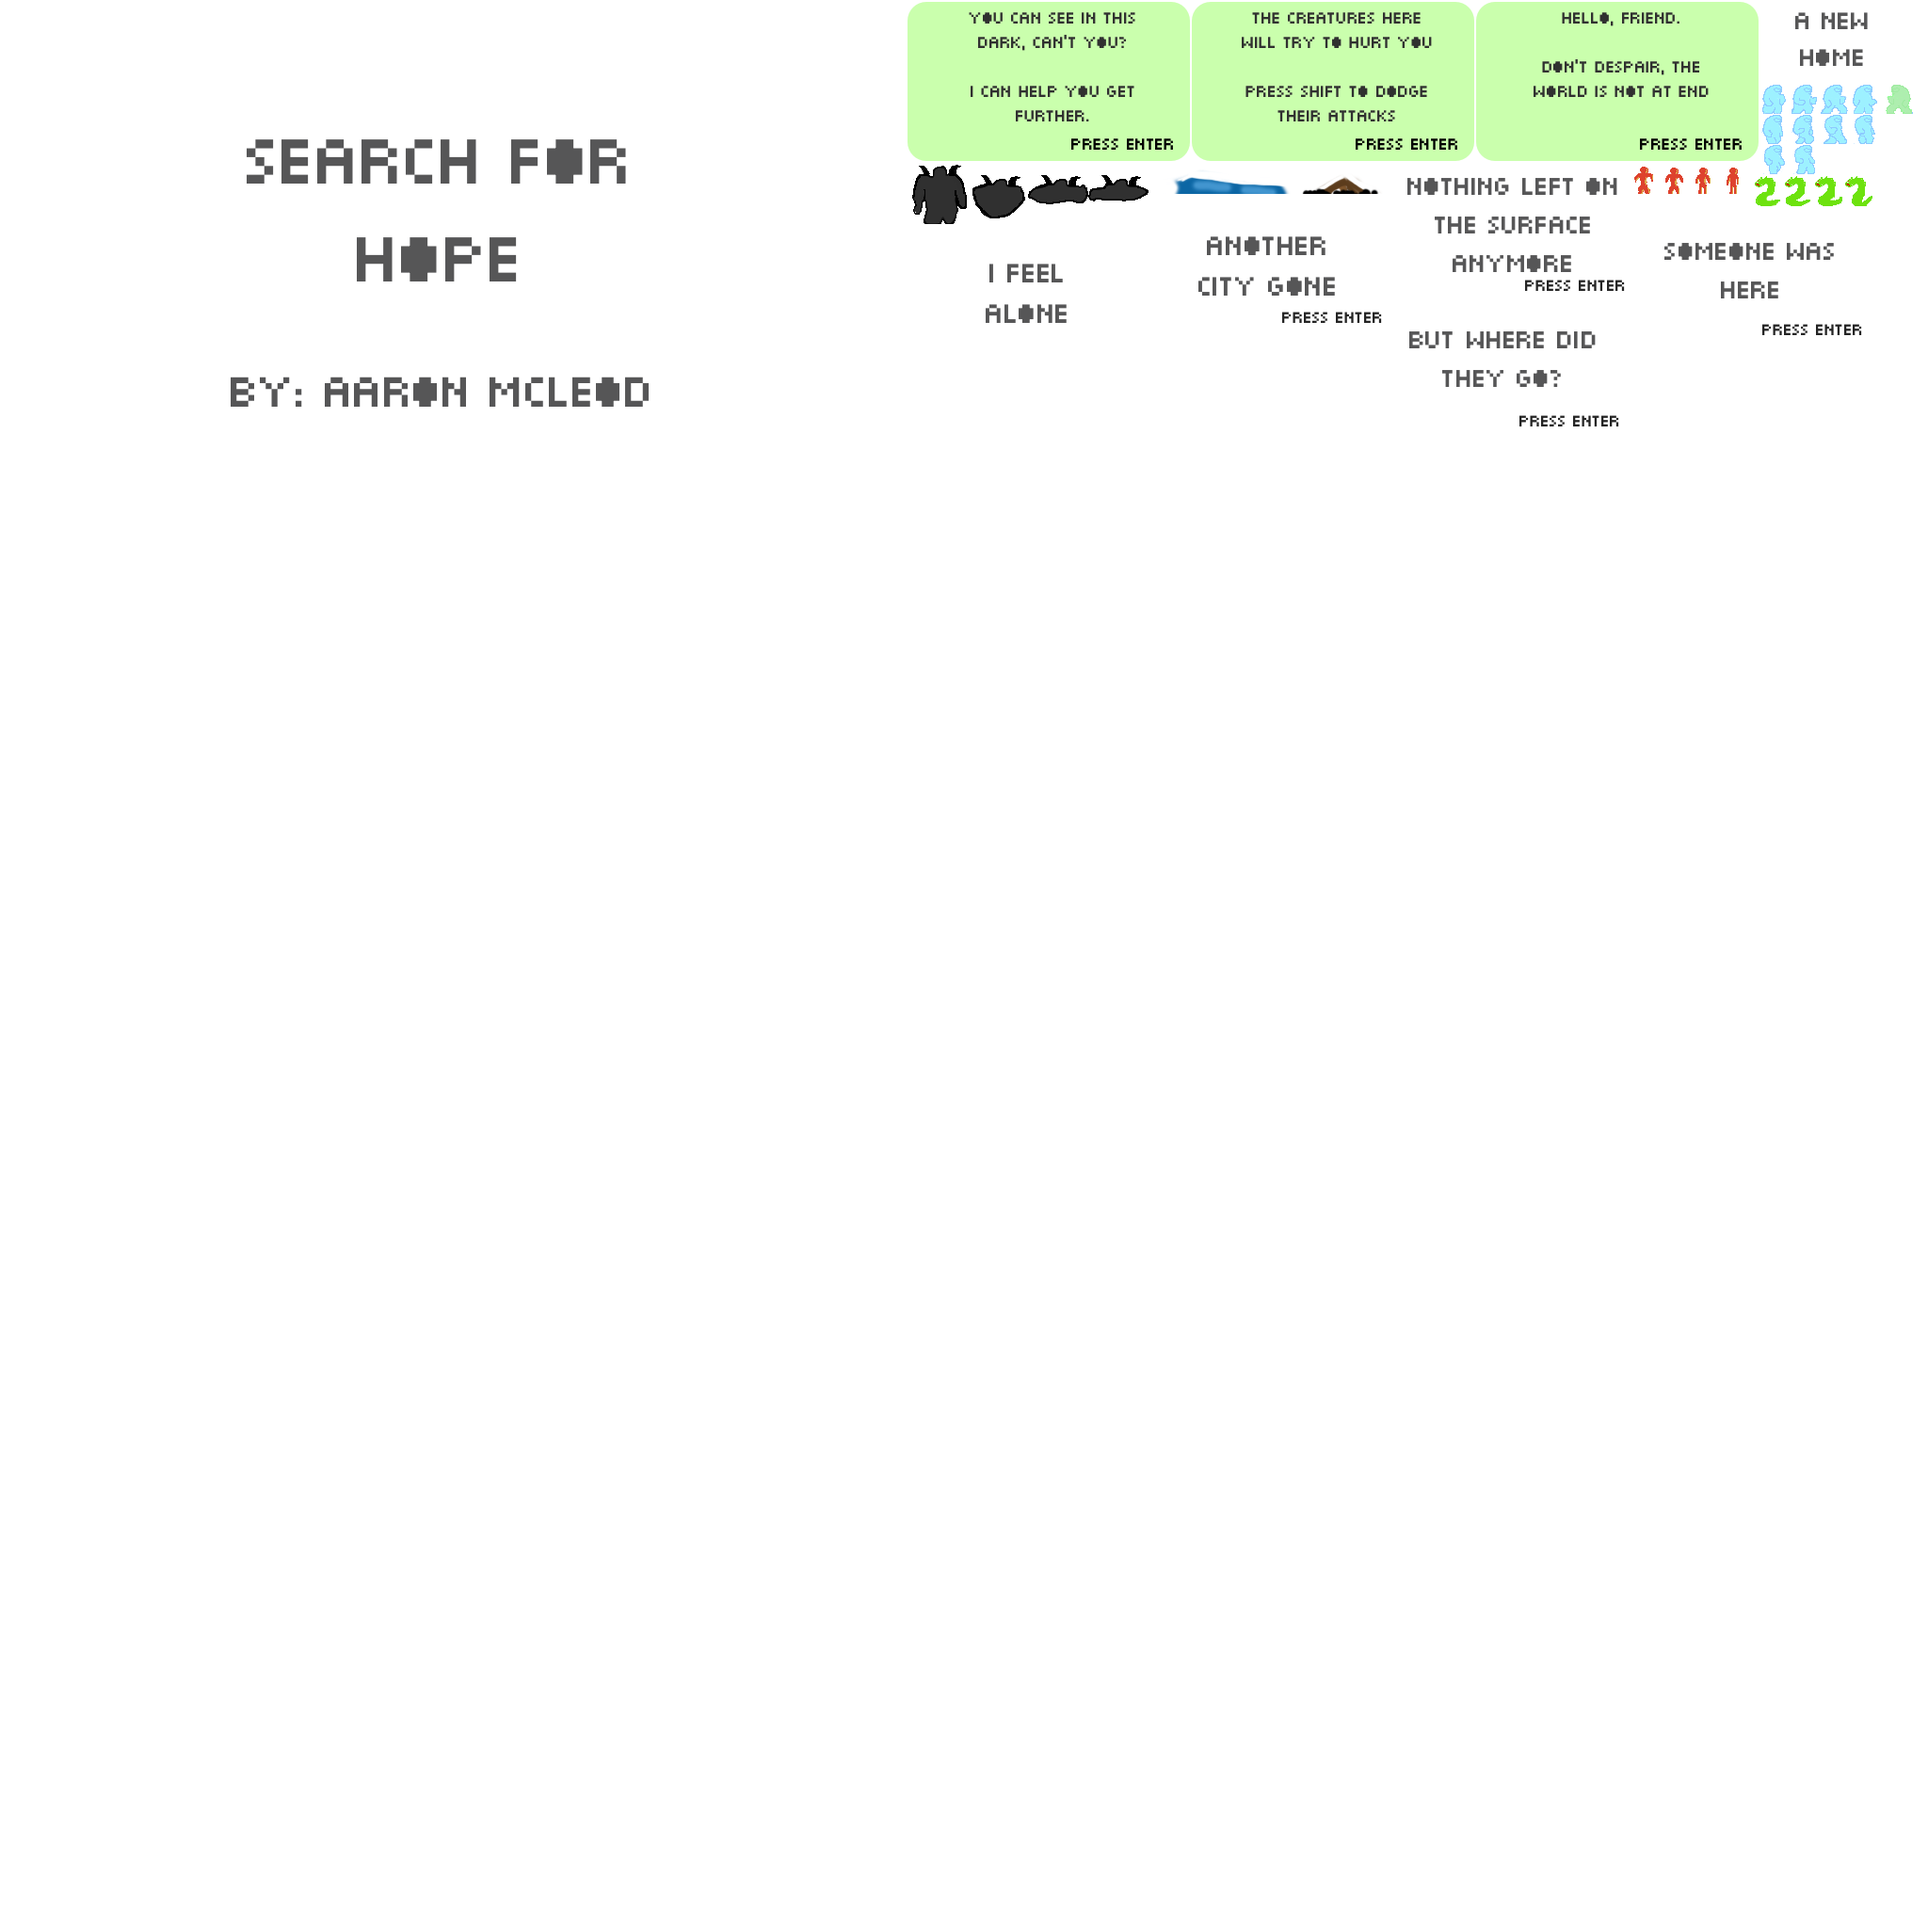
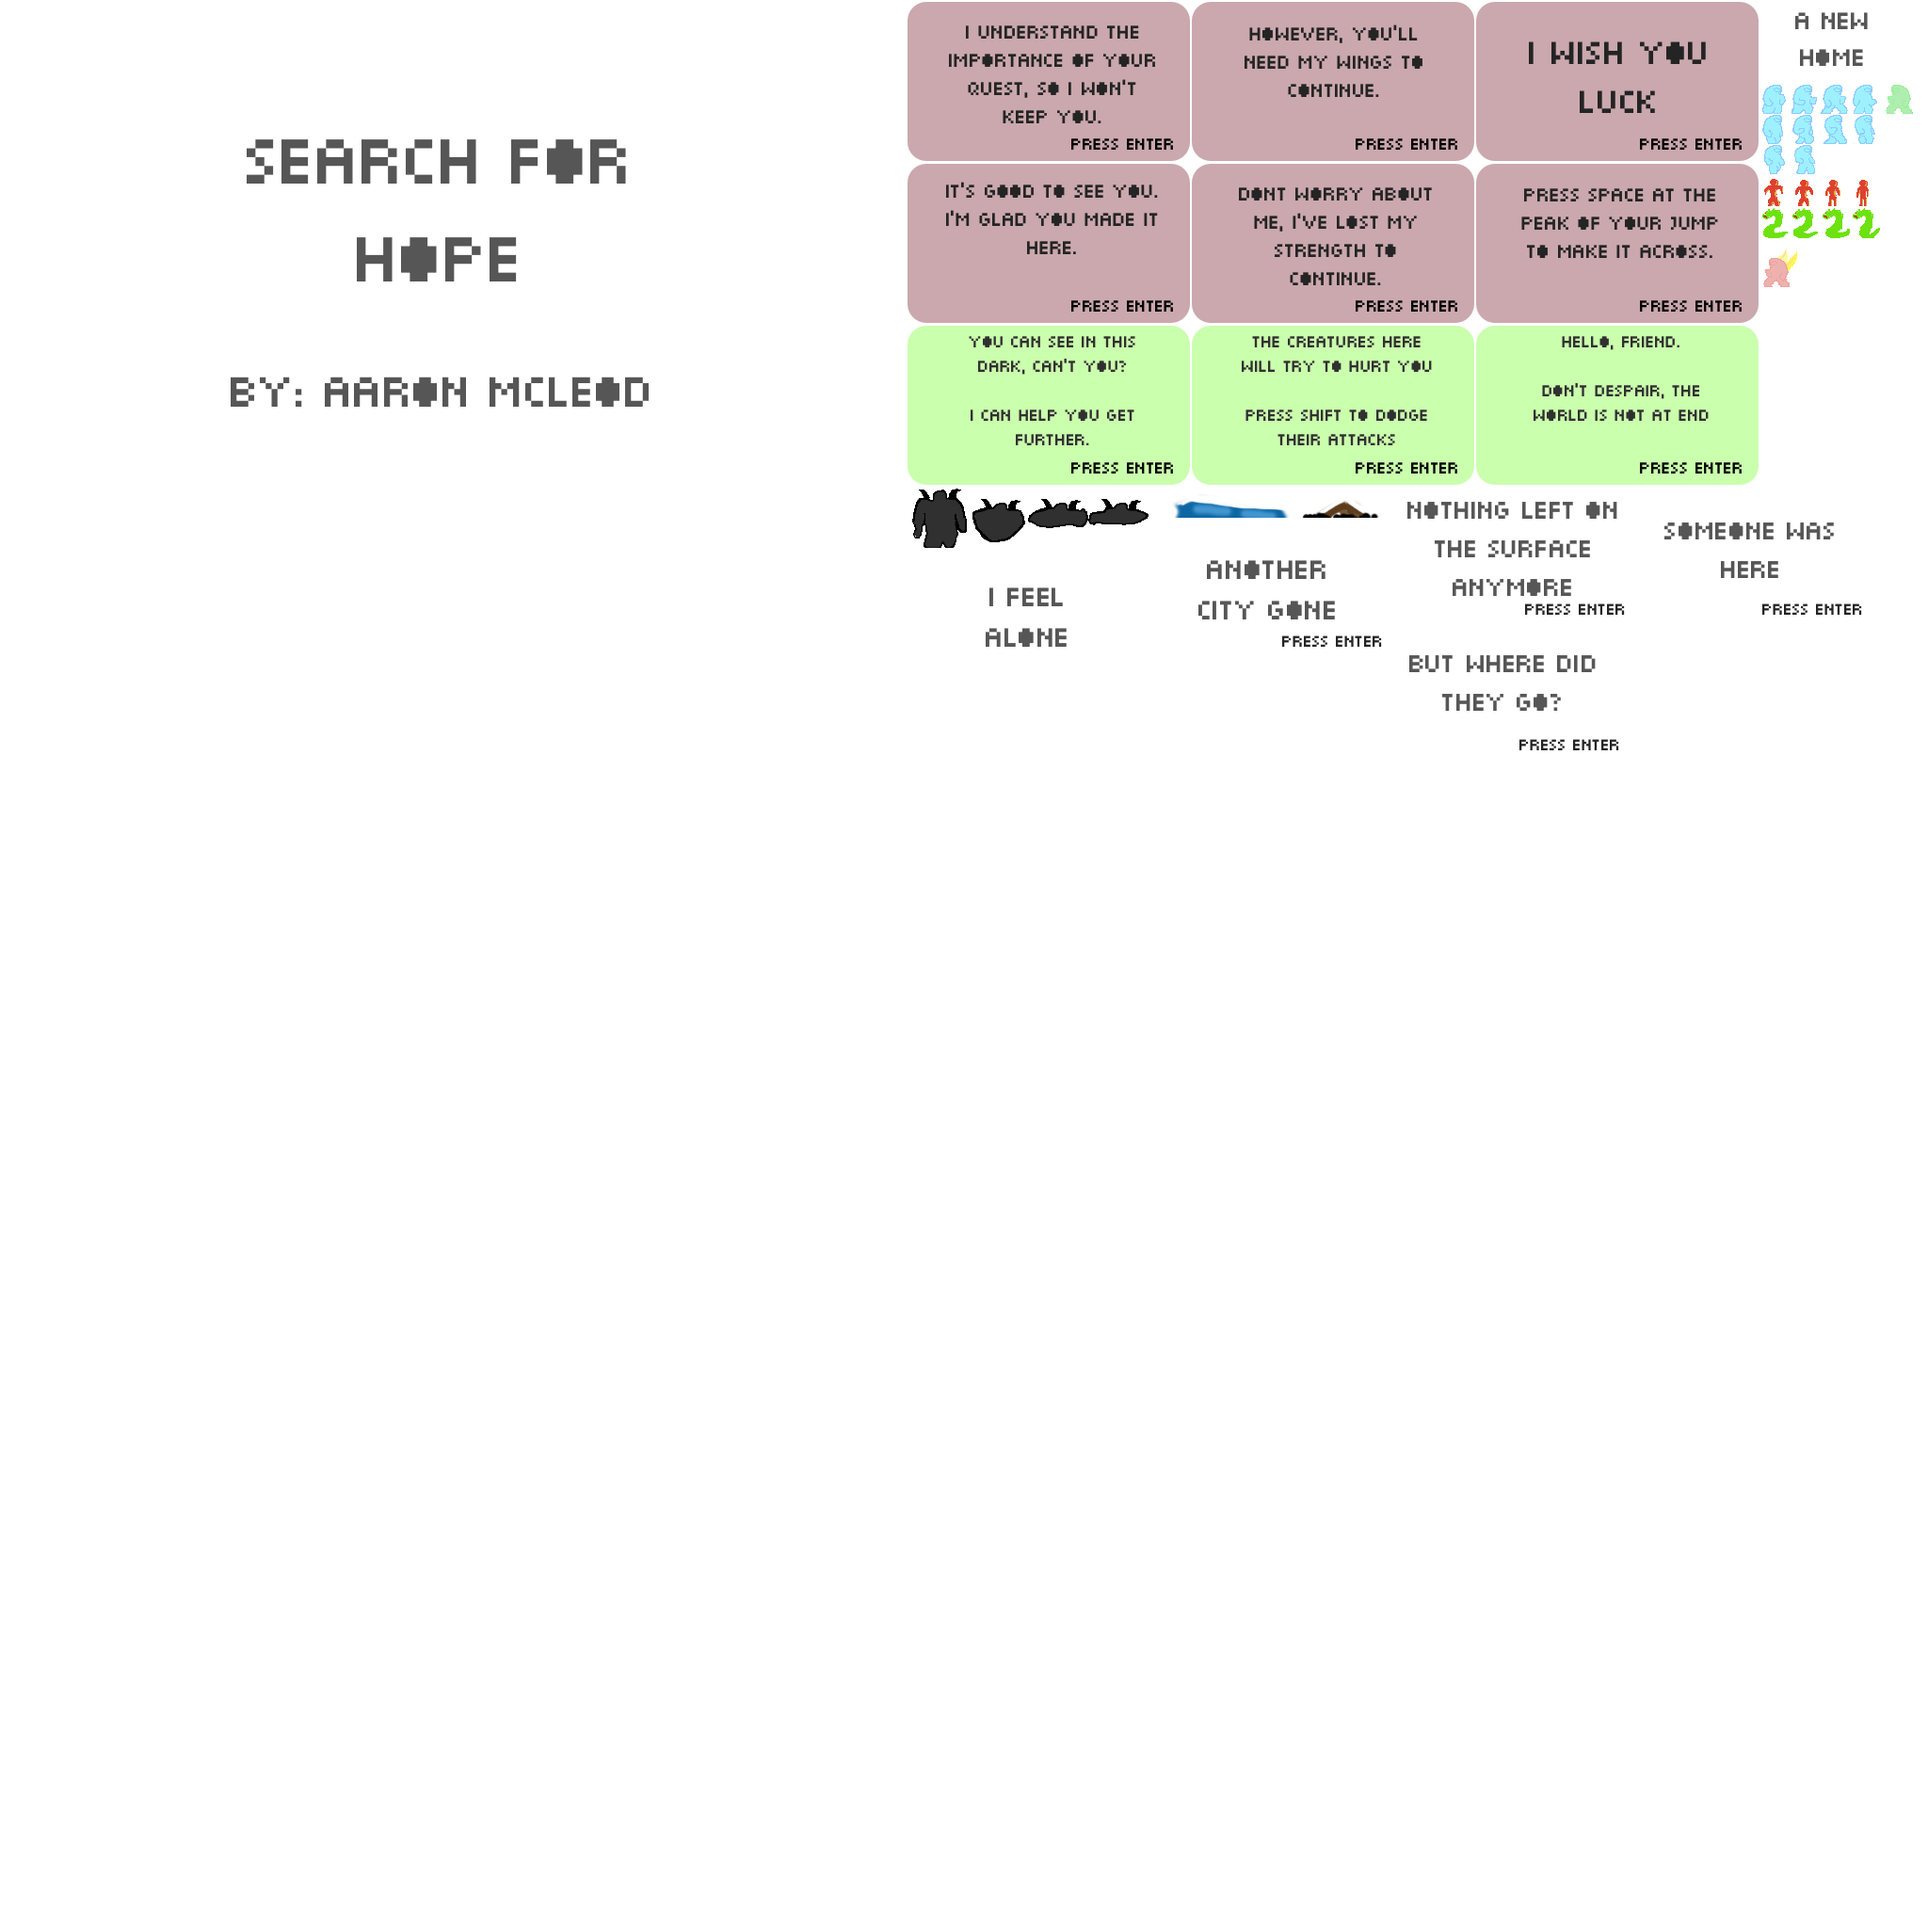
glide enable

Changed region(s): [[0.4688, 0.0, 0.9688, 0.375], [0.5, 0.3125, 0.5625, 0.3438]]

diff --git a/js/entities/glide_item.js b/js/entities/glide_item.js
@@ -1,0 +1,28 @@
+game.GlideItem = me.Entity.extend({
+  init: function (x, y, settings) {
+    this._super(me.Entity, "init", [x, y, settings]);
+    var region = game.atlas.getRegion("glide.png");
+    this.renderable = new me.Sprite(0, 0, game.atlas.getTexture(), region.width, region.height);
+    this.renderable.offset.setV(region.offset);
+    this.body.collisionType = me.collision.types.COLLECTABLE_OBJECT;
+    this.type = 'glide';
+    this.triggered = false;
+  },
+
+  onCollision: function (res, obj) {
+    if (obj.name === "player") {
+      if (!this.triggered) {
+        this.triggered = true;
+        game.playScreen.startDialogue(this.pos.x, this.pos.y, ['floatmessageone.png', 'floatmessagetwo.png', 'floatmessagethree.png', 'floatmessagefour.png', 'floatmessagefive.png', 'floatmessagesix.png']);
+      }
+      return false;
+    }
+  },
+
+  update: function (dt) {
+    this._super(me.Entity, "update", [dt]);
+    this.body.update();
+    me.collision.check(this);
+    return false;
+  }
+});

diff --git a/index.html b/index.html
@@ -42,6 +42,7 @@
     <script type="text/javascript" src="js/entities/black_thing.js"></script>
     <script type="text/javascript" src="js/entities/campsite.js"></script>
     <script type="text/javascript" src="js/entities/dodge_item.js"></script>
+    <script type="text/javascript" src="js/entities/glide_item.js"></script>
     <script type="text/javascript" src="js/entities/green_thing.js"></script>
     <script type="text/javascript" src="js/entities/player.js"></script>
     <script type="text/javascript" src="js/entities/position_level_entity.js"></script>

diff --git a/js/screens/play_screen.js b/js/screens/play_screen.js
@@ -88,6 +88,7 @@ game.PlayScreen = me.ScreenObject.extend({
     me.pool.register('redthing', game.RedThing, true);
     me.pool.register('blackthing', game.BlackThing, true);
     me.pool.register('dodgeitem', game.DodgeItem);
+    me.pool.register('glide', game.GlideItem);
     me.pool.register('shooter', game.Shooter);
     me.pool.register('projectile', game.Projectile);
     me.pool.register('dialogue', game.Dialogue);

diff --git a/js/entities/player.js b/js/entities/player.js
@@ -132,6 +132,10 @@ game.Player = me.Entity.extend({
           this.canDodge = true;
           game.abilities.Dodge = true;
         }
+        if (other.type === 'glide') {
+          this.canGlide = true;
+          game.abilities.Glide = true;
+        }
         return false;
         break;
       case me.collision.types.ACTION_OBJECT:

diff --git a/js/game.js b/js/game.js
@@ -1,7 +1,8 @@
 /* Game namespace */
 var game = {
   abilities: {
-    Dodge: false
+    Dodge: false,
+    Glide: false
   },
   onload: function () {
     // Initialize the video.
